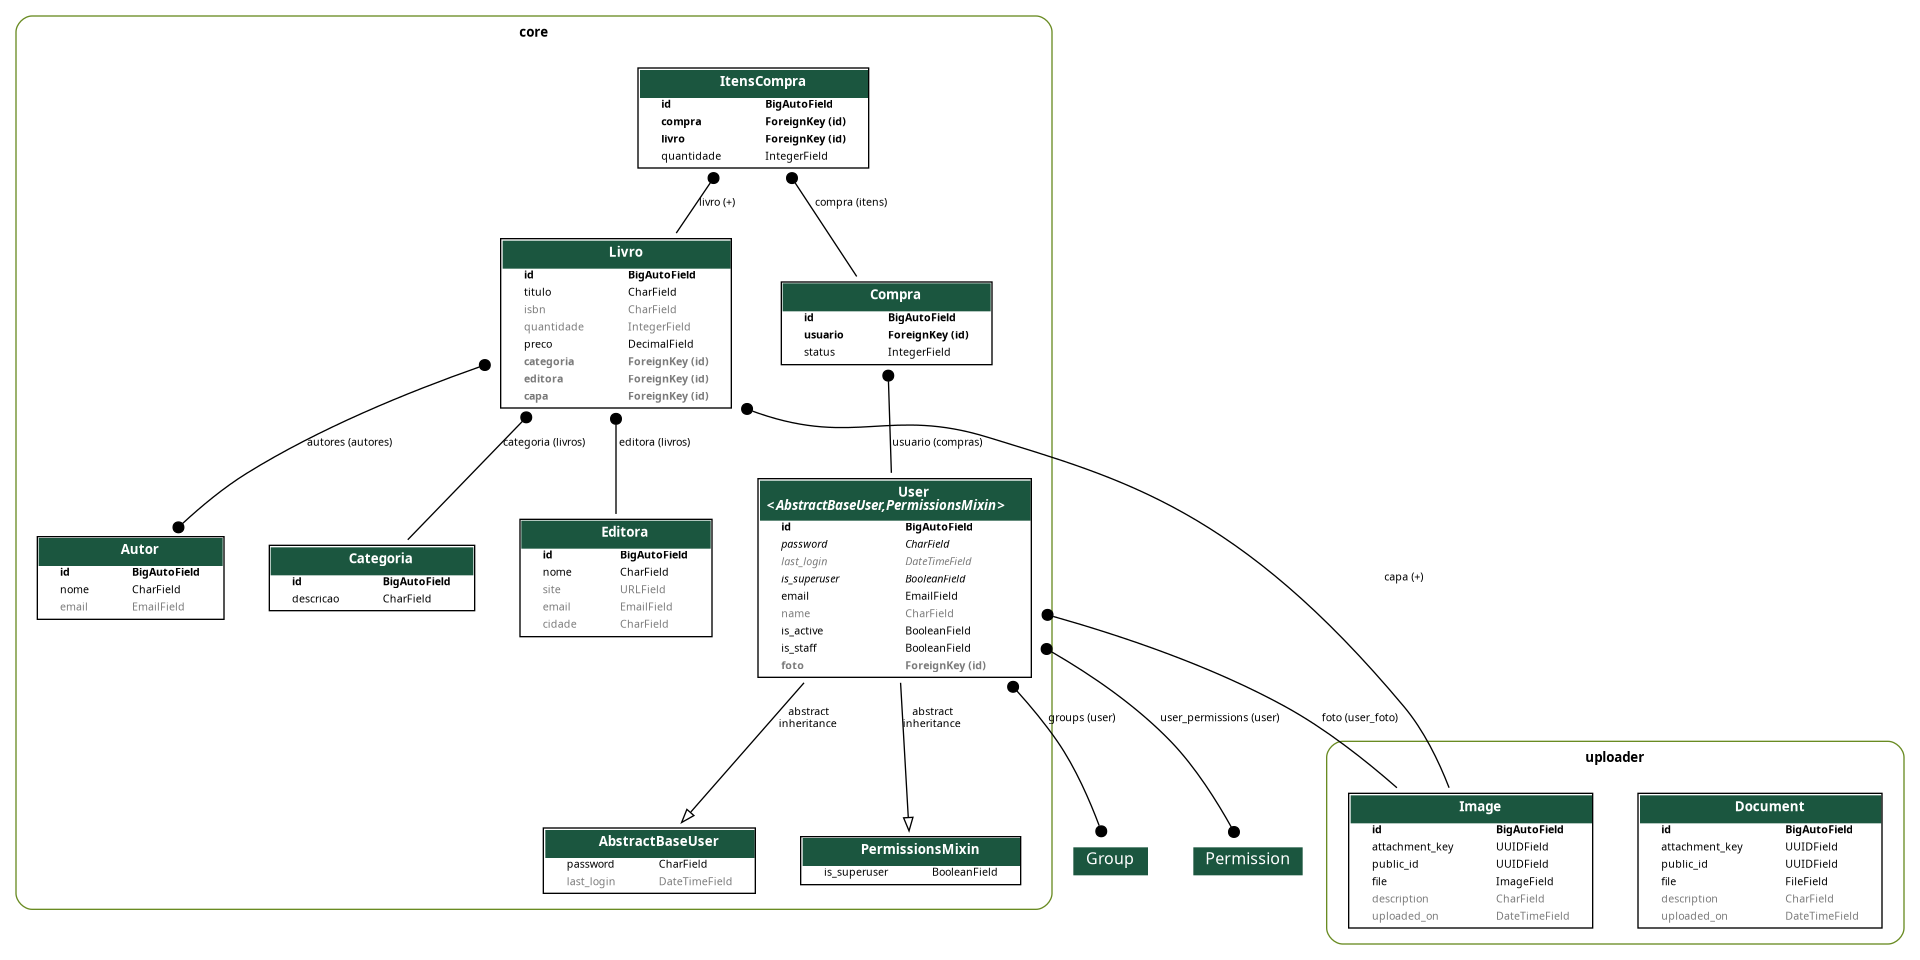
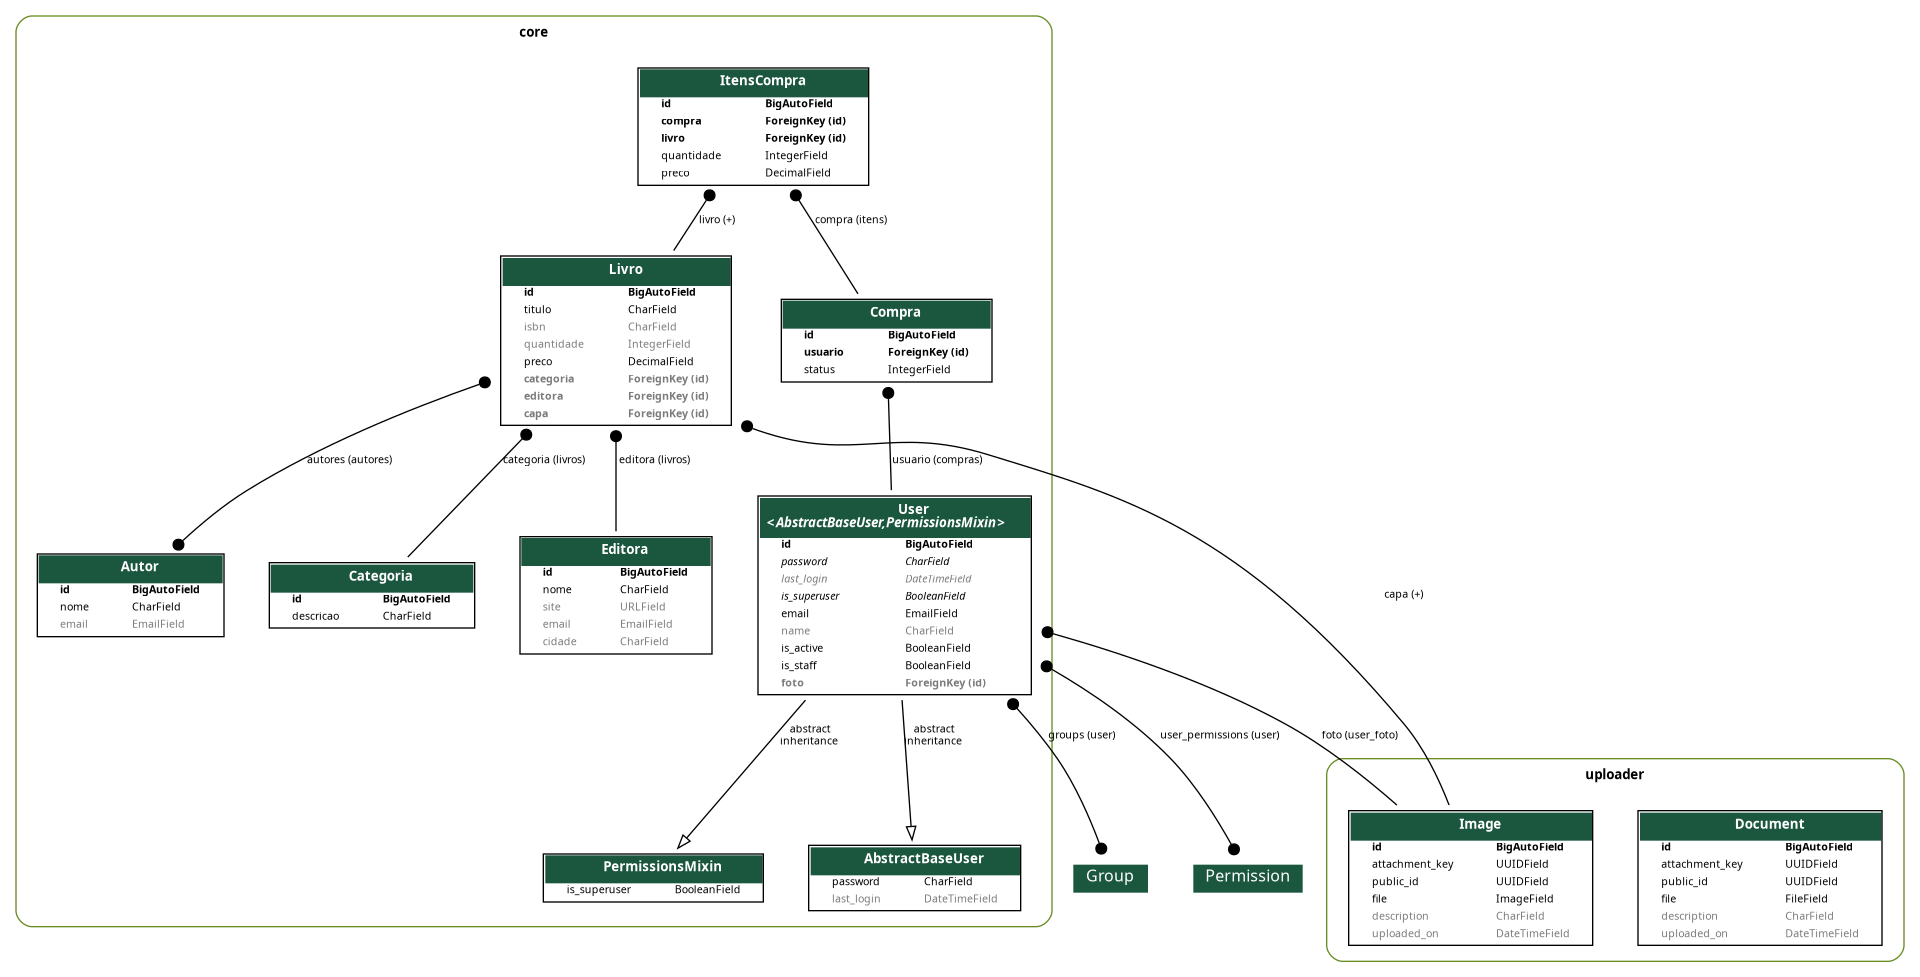
feat: Gravação do preço do livro no item da compra

diff --git a/core/serializers/compra.py b/core/serializers/compra.py
@@ -13,7 +13,7 @@ from core.models import Compra, ItensCompra
 class ItensCompraCreateUpdateSerializer(ModelSerializer):
     class Meta:
         model = ItensCompra
-        fields = ('livro', 'quantidade')
+        fields = ('livro', 'quantidade', 'preco')
 
     def validate_quantidade(self, quantidade):
         if quantidade <= 0:
@@ -31,7 +31,7 @@ class ItensCompraListSerializer(ModelSerializer):
 
     class Meta:
         model = ItensCompra
-        fields = ('quantidade', 'livro')
+        fields = ('quantidade', 'livro', 'preco')
         depth = 1
 
 
@@ -39,11 +39,11 @@ class ItensCompraSerializer(ModelSerializer):
     total = SerializerMethodField()
 
     def get_total(self, instance):
-        return instance.livro.preco * instance.quantidade
+        return instance.quantidade * instance.preco
 
     class Meta:
         model = ItensCompra
-        fields = ('livro', 'quantidade', 'total')
+        fields = ('livro', 'quantidade', 'total', 'preco')
         depth = 1
 
 
@@ -55,19 +55,22 @@ class CompraCreateUpdateSerializer(ModelSerializer):
         fields = ('id', 'usuario', 'itens')
 
     def create(self, validated_data):
-        itens_data = validated_data.pop('itens')
+        itens = validated_data.pop('itens')
         compra = Compra.objects.create(**validated_data)
-        for item_data in itens_data:
-            ItensCompra.objects.create(compra=compra, **item_data)
+        for item in itens:
+            item['preco'] = item['livro'].preco
+            ItensCompra.objects.create(compra=compra, **item)
         compra.save()
         return compra
 
     def update(self, compra, validated_data):
-        itens_data = validated_data.pop('itens', [])
-        if itens_data:
+        itens = validated_data.pop('itens')
+        if itens:
             compra.itens.all().delete()
-            for item_data in itens_data:
-                ItensCompra.objects.create(compra=compra, **item_data)
+            for item in itens:
+                item['preco'] = item['livro'].preco
+                ItensCompra.objects.create(compra=compra, **item)
+        compra.save()
         return super().update(compra, validated_data)
 
 

diff --git a/core/models/compra.py b/core/models/compra.py
@@ -15,15 +15,11 @@ class Compra(models.Model):
     status = models.IntegerField(choices=StatusCompra.choices, default=StatusCompra.CARRINHO)
     @property
     def total(self):
-        # total = 0
-        # for item in self.itens.all():
-        #     total += item.livro.preco * item.quantidade
-        # return total
-        return sum(item.livro.preco * item.quantidade for item in self.itens.all())
-
+        return sum(item.preco * item.quantidade for item in self.itens.all())
 
 
 class ItensCompra(models.Model):
     compra = models.ForeignKey(Compra, on_delete=models.CASCADE, related_name='itens')
     livro = models.ForeignKey(Livro, on_delete=models.PROTECT, related_name='+')
     quantidade = models.IntegerField(default=1)
+    preco = models.DecimalField(max_digits=7, decimal_places=2, default=0)

diff --git a/core/migrations/0017_itenscompra_preco.py b/core/migrations/0017_itenscompra_preco.py
@@ -1,0 +1,18 @@
+# Generated by Django 5.2.13 on 2026-09-15 11:45
+
+from django.db import migrations, models
+
+
+class Migration(migrations.Migration):
+
+    dependencies = [
+        ('core', '0016_compra_itenscompra'),
+    ]
+
+    operations = [
+        migrations.AddField(
+            model_name='itenscompra',
+            name='preco',
+            field=models.DecimalField(decimal_places=2, default=0, max_digits=7),
+        ),
+    ]
